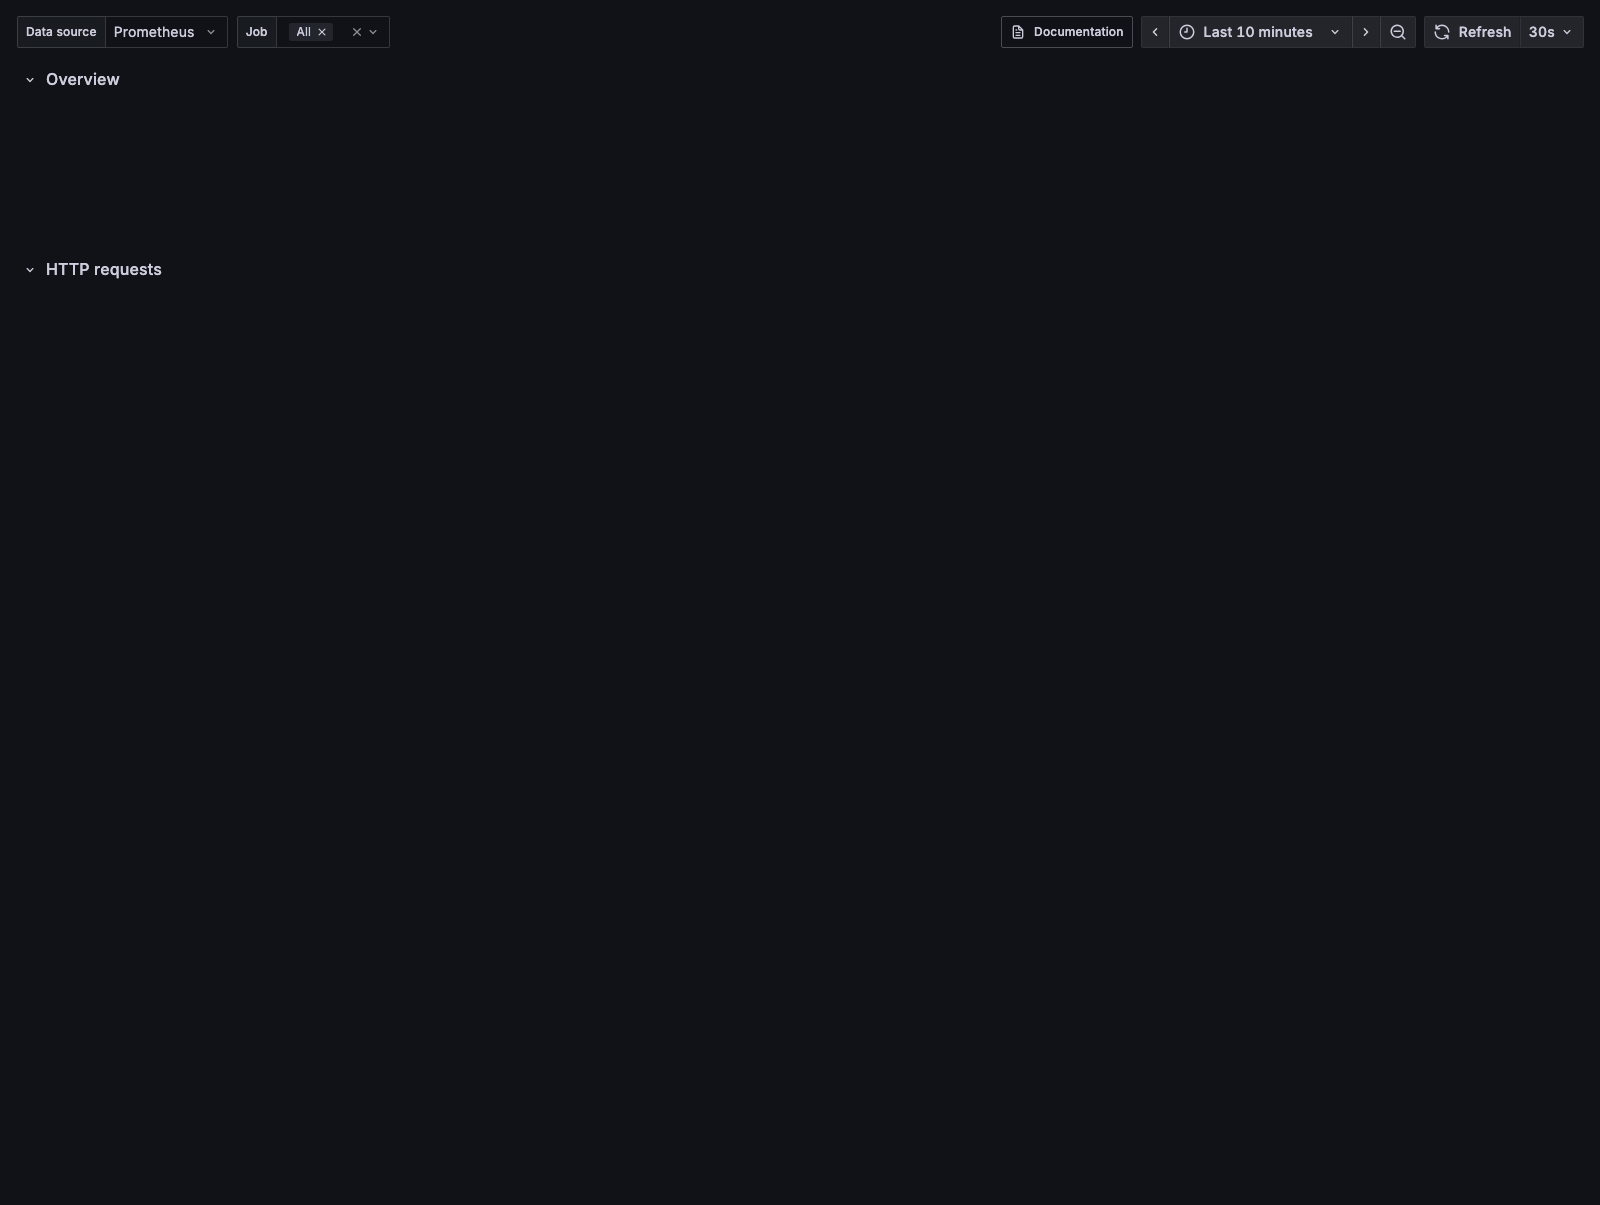
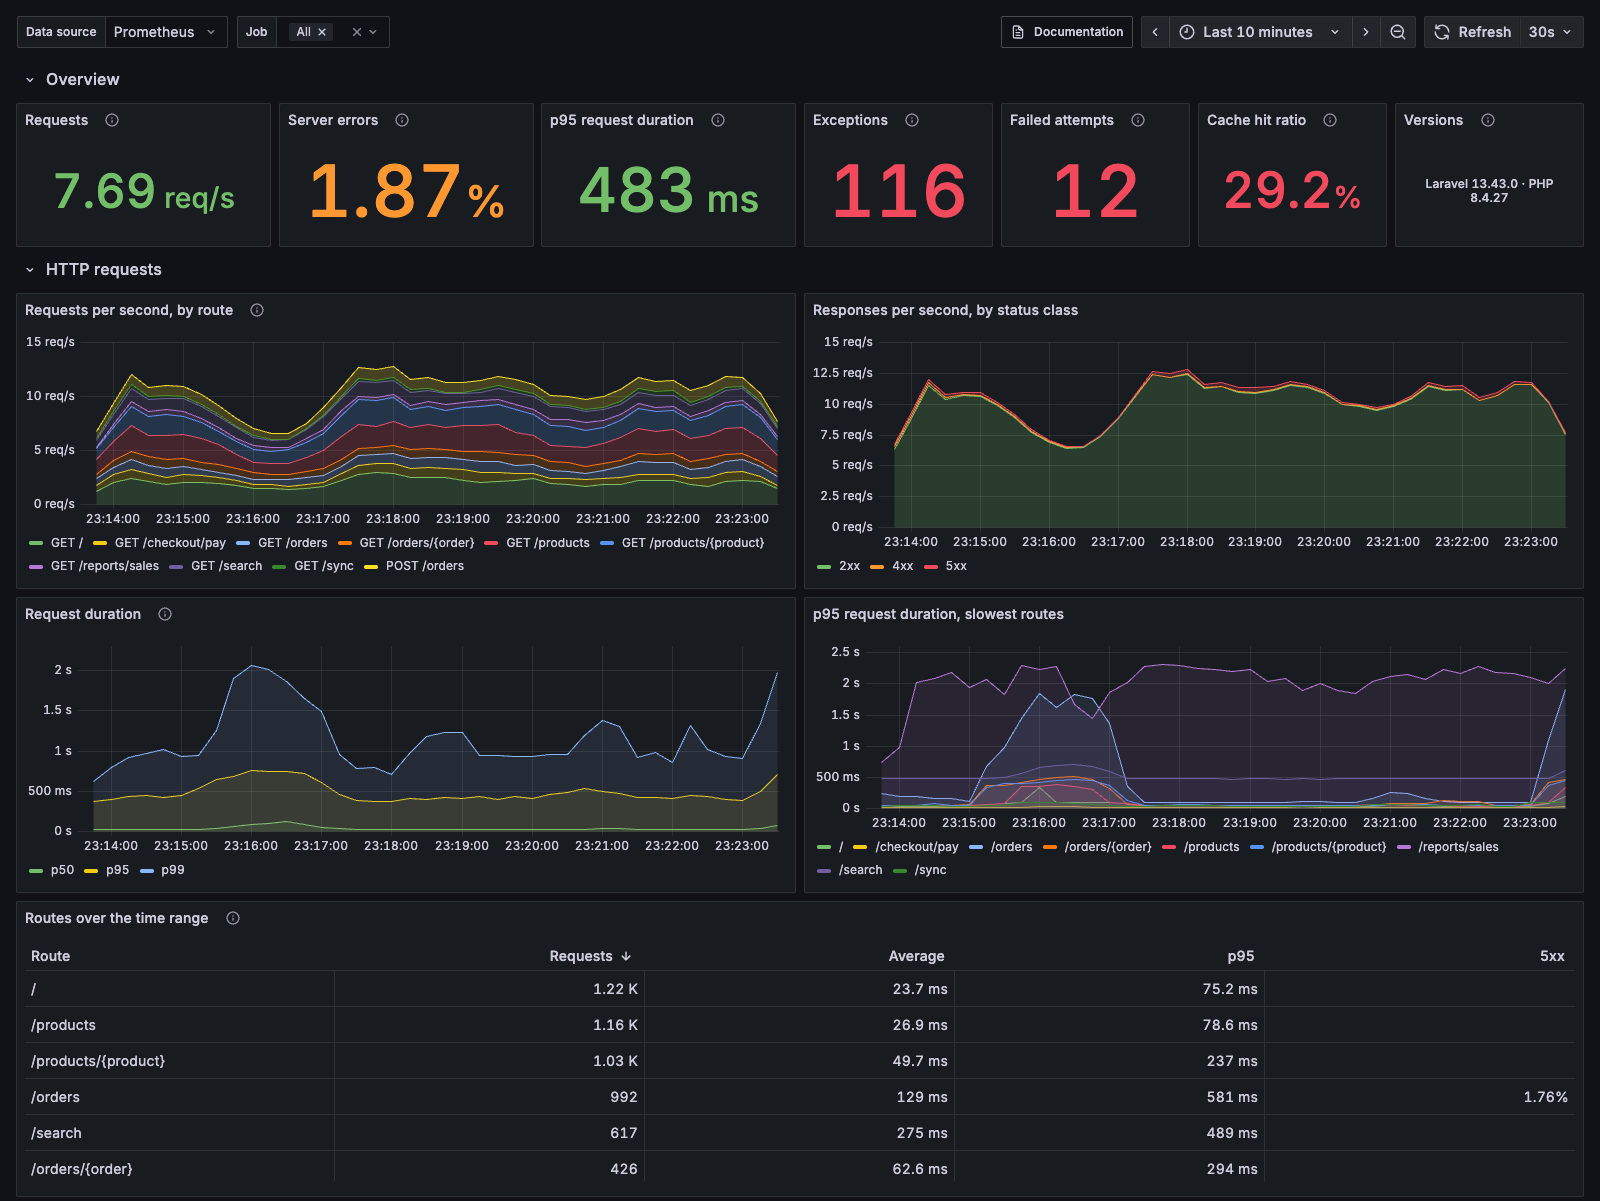
Show the whole Grafana dashboard in the docs (#19)
The screenshot on the Grafana dashboard guide was blank, because
Grafana had not rendered the panels when it was taken. The guide now
shows a real dashboard, and a click opens all of it.

- New screenshots of a demo application: the guide shows the Overview
  and HTTP rows, and a click opens the whole dashboard, Database row
  included, in a modal dialog.
- The "Database server connections" panel shows a count of
  connections, not operations per second.

diff --git a/CHANGELOG.md b/CHANGELOG.md
@@ -7,6 +7,8 @@ All notable changes to `laravel-actuator` will be documented in this file.
 ### Fixed
 
 - A health indicator whose class cannot be resolved (it does not exist, or a constructor dependency cannot be built) reports `DOWN` with the exception in its `error` detail, and logs a warning. The health endpoint no longer fails with HTTP 500 and still reports the other components.
+- The "Database server connections" panel of the sample Grafana dashboard shows a count of connections, not operations per second.
+- The screenshot of the sample Grafana dashboard in the docs shows the panels. It was blank. Click it to see the whole dashboard.
 
 ## 1.3.0 - 2026-11-22
 
